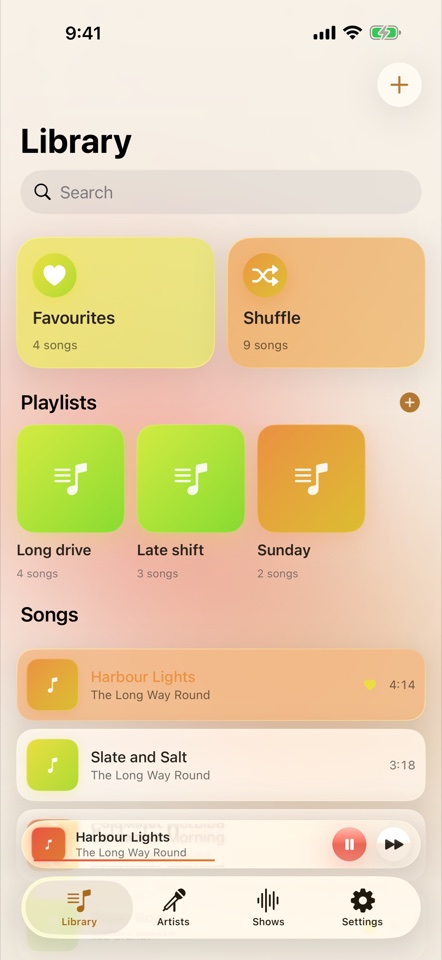
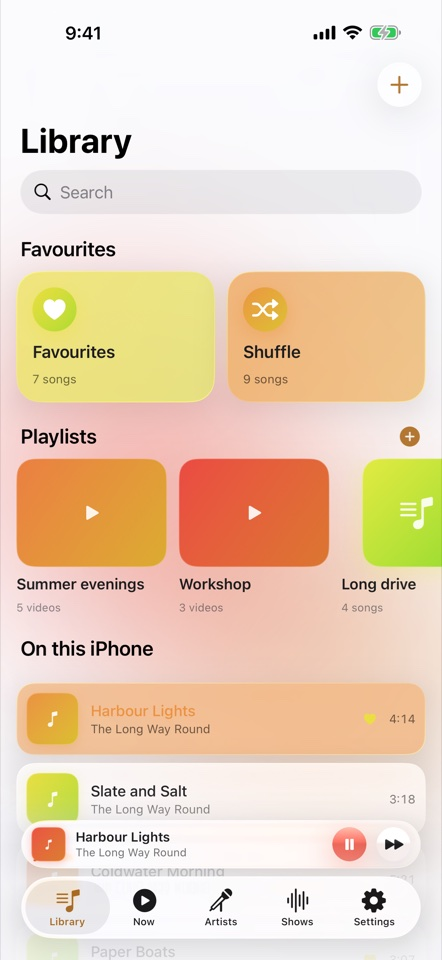
Mniejszy telefon na telefonie: 34vh zamiast 48vh w widoku mobilnym

diff --git a/de/index.html b/de/index.html
@@ -259,7 +259,7 @@ html.lite .ptile::before{filter:none!important;box-shadow:none}html.lite .pbg{bo
 /* ── small screens ── */
 @media(max-width:1000px){
  .tour{display:flex;flex-direction:column;padding-top:76px;gap:12px}#gl{z-index:4}
- .ptile{order:-1;position:sticky;top:70px;height:48vh;z-index:5;align-self:stretch;width:100%;margin-bottom:2px;background:var(--phonebg);box-shadow:0 24px 40px -22px rgba(0,0,0,.55)}.pbg{display:none}
+ .ptile{order:-1;position:sticky;top:70px;height:34vh;z-index:5;align-self:stretch;width:100%;margin-bottom:2px;background:var(--phonebg);box-shadow:0 24px 40px -22px rgba(0,0,0,.55)}.pbg{display:none}
  .tile,.tile.R{min-height:0!important}nav ul{display:none}.two,.flip{height:170px}.head h1{font-size:40px}
  .mosaic,.ex,.facts{grid-template-columns:1fr}.steps{grid-template-columns:1fr}.steps .tile{min-height:0}.cmp th,.cmp td{padding:14px 14px;font-size:14px}.cmp tbody th{width:32%}
  .plabel{font-size:12.5px;min-height:44px;padding-bottom:10px}

diff --git a/el/index.html b/el/index.html
@@ -259,7 +259,7 @@ html.lite .ptile::before{filter:none!important;box-shadow:none}html.lite .pbg{bo
 /* ── small screens ── */
 @media(max-width:1000px){
  .tour{display:flex;flex-direction:column;padding-top:76px;gap:12px}#gl{z-index:4}
- .ptile{order:-1;position:sticky;top:70px;height:48vh;z-index:5;align-self:stretch;width:100%;margin-bottom:2px;background:var(--phonebg);box-shadow:0 24px 40px -22px rgba(0,0,0,.55)}.pbg{display:none}
+ .ptile{order:-1;position:sticky;top:70px;height:34vh;z-index:5;align-self:stretch;width:100%;margin-bottom:2px;background:var(--phonebg);box-shadow:0 24px 40px -22px rgba(0,0,0,.55)}.pbg{display:none}
  .tile,.tile.R{min-height:0!important}nav ul{display:none}.two,.flip{height:170px}.head h1{font-size:40px}
  .mosaic,.ex,.facts{grid-template-columns:1fr}.steps{grid-template-columns:1fr}.steps .tile{min-height:0}.cmp th,.cmp td{padding:14px 14px;font-size:14px}.cmp tbody th{width:32%}
  .plabel{font-size:12.5px;min-height:44px;padding-bottom:10px}

diff --git a/es/index.html b/es/index.html
@@ -259,7 +259,7 @@ html.lite .ptile::before{filter:none!important;box-shadow:none}html.lite .pbg{bo
 /* ── small screens ── */
 @media(max-width:1000px){
  .tour{display:flex;flex-direction:column;padding-top:76px;gap:12px}#gl{z-index:4}
- .ptile{order:-1;position:sticky;top:70px;height:48vh;z-index:5;align-self:stretch;width:100%;margin-bottom:2px;background:var(--phonebg);box-shadow:0 24px 40px -22px rgba(0,0,0,.55)}.pbg{display:none}
+ .ptile{order:-1;position:sticky;top:70px;height:34vh;z-index:5;align-self:stretch;width:100%;margin-bottom:2px;background:var(--phonebg);box-shadow:0 24px 40px -22px rgba(0,0,0,.55)}.pbg{display:none}
  .tile,.tile.R{min-height:0!important}nav ul{display:none}.two,.flip{height:170px}.head h1{font-size:40px}
  .mosaic,.ex,.facts{grid-template-columns:1fr}.steps{grid-template-columns:1fr}.steps .tile{min-height:0}.cmp th,.cmp td{padding:14px 14px;font-size:14px}.cmp tbody th{width:32%}
  .plabel{font-size:12.5px;min-height:44px;padding-bottom:10px}

diff --git a/fr/index.html b/fr/index.html
@@ -259,7 +259,7 @@ html.lite .ptile::before{filter:none!important;box-shadow:none}html.lite .pbg{bo
 /* ── small screens ── */
 @media(max-width:1000px){
  .tour{display:flex;flex-direction:column;padding-top:76px;gap:12px}#gl{z-index:4}
- .ptile{order:-1;position:sticky;top:70px;height:48vh;z-index:5;align-self:stretch;width:100%;margin-bottom:2px;background:var(--phonebg);box-shadow:0 24px 40px -22px rgba(0,0,0,.55)}.pbg{display:none}
+ .ptile{order:-1;position:sticky;top:70px;height:34vh;z-index:5;align-self:stretch;width:100%;margin-bottom:2px;background:var(--phonebg);box-shadow:0 24px 40px -22px rgba(0,0,0,.55)}.pbg{display:none}
  .tile,.tile.R{min-height:0!important}nav ul{display:none}.two,.flip{height:170px}.head h1{font-size:40px}
  .mosaic,.ex,.facts{grid-template-columns:1fr}.steps{grid-template-columns:1fr}.steps .tile{min-height:0}.cmp th,.cmp td{padding:14px 14px;font-size:14px}.cmp tbody th{width:32%}
  .plabel{font-size:12.5px;min-height:44px;padding-bottom:10px}

diff --git a/index.html b/index.html
@@ -259,7 +259,7 @@ html.lite .ptile::before{filter:none!important;box-shadow:none}html.lite .pbg{bo
 /* ── small screens ── */
 @media(max-width:1000px){
  .tour{display:flex;flex-direction:column;padding-top:76px;gap:12px}#gl{z-index:4}
- .ptile{order:-1;position:sticky;top:70px;height:48vh;z-index:5;align-self:stretch;width:100%;margin-bottom:2px;background:var(--phonebg);box-shadow:0 24px 40px -22px rgba(0,0,0,.55)}.pbg{display:none}
+ .ptile{order:-1;position:sticky;top:70px;height:34vh;z-index:5;align-self:stretch;width:100%;margin-bottom:2px;background:var(--phonebg);box-shadow:0 24px 40px -22px rgba(0,0,0,.55)}.pbg{display:none}
  .tile,.tile.R{min-height:0!important}nav ul{display:none}.two,.flip{height:170px}.head h1{font-size:40px}
  .mosaic,.ex,.facts{grid-template-columns:1fr}.steps{grid-template-columns:1fr}.steps .tile{min-height:0}.cmp th,.cmp td{padding:14px 14px;font-size:14px}.cmp tbody th{width:32%}
  .plabel{font-size:12.5px;min-height:44px;padding-bottom:10px}

diff --git a/it/index.html b/it/index.html
@@ -259,7 +259,7 @@ html.lite .ptile::before{filter:none!important;box-shadow:none}html.lite .pbg{bo
 /* ── small screens ── */
 @media(max-width:1000px){
  .tour{display:flex;flex-direction:column;padding-top:76px;gap:12px}#gl{z-index:4}
- .ptile{order:-1;position:sticky;top:70px;height:48vh;z-index:5;align-self:stretch;width:100%;margin-bottom:2px;background:var(--phonebg);box-shadow:0 24px 40px -22px rgba(0,0,0,.55)}.pbg{display:none}
+ .ptile{order:-1;position:sticky;top:70px;height:34vh;z-index:5;align-self:stretch;width:100%;margin-bottom:2px;background:var(--phonebg);box-shadow:0 24px 40px -22px rgba(0,0,0,.55)}.pbg{display:none}
  .tile,.tile.R{min-height:0!important}nav ul{display:none}.two,.flip{height:170px}.head h1{font-size:40px}
  .mosaic,.ex,.facts{grid-template-columns:1fr}.steps{grid-template-columns:1fr}.steps .tile{min-height:0}.cmp th,.cmp td{padding:14px 14px;font-size:14px}.cmp tbody th{width:32%}
  .plabel{font-size:12.5px;min-height:44px;padding-bottom:10px}

diff --git a/ja/index.html b/ja/index.html
@@ -259,7 +259,7 @@ html.lite .ptile::before{filter:none!important;box-shadow:none}html.lite .pbg{bo
 /* ── small screens ── */
 @media(max-width:1000px){
  .tour{display:flex;flex-direction:column;padding-top:76px;gap:12px}#gl{z-index:4}
- .ptile{order:-1;position:sticky;top:70px;height:48vh;z-index:5;align-self:stretch;width:100%;margin-bottom:2px;background:var(--phonebg);box-shadow:0 24px 40px -22px rgba(0,0,0,.55)}.pbg{display:none}
+ .ptile{order:-1;position:sticky;top:70px;height:34vh;z-index:5;align-self:stretch;width:100%;margin-bottom:2px;background:var(--phonebg);box-shadow:0 24px 40px -22px rgba(0,0,0,.55)}.pbg{display:none}
  .tile,.tile.R{min-height:0!important}nav ul{display:none}.two,.flip{height:170px}.head h1{font-size:40px}
  .mosaic,.ex,.facts{grid-template-columns:1fr}.steps{grid-template-columns:1fr}.steps .tile{min-height:0}.cmp th,.cmp td{padding:14px 14px;font-size:14px}.cmp tbody th{width:32%}
  .plabel{font-size:12.5px;min-height:44px;padding-bottom:10px}

diff --git a/pl/index.html b/pl/index.html
@@ -259,7 +259,7 @@ html.lite .ptile::before{filter:none!important;box-shadow:none}html.lite .pbg{bo
 /* ── small screens ── */
 @media(max-width:1000px){
  .tour{display:flex;flex-direction:column;padding-top:76px;gap:12px}#gl{z-index:4}
- .ptile{order:-1;position:sticky;top:70px;height:48vh;z-index:5;align-self:stretch;width:100%;margin-bottom:2px;background:var(--phonebg);box-shadow:0 24px 40px -22px rgba(0,0,0,.55)}.pbg{display:none}
+ .ptile{order:-1;position:sticky;top:70px;height:34vh;z-index:5;align-self:stretch;width:100%;margin-bottom:2px;background:var(--phonebg);box-shadow:0 24px 40px -22px rgba(0,0,0,.55)}.pbg{display:none}
  .tile,.tile.R{min-height:0!important}nav ul{display:none}.two,.flip{height:170px}.head h1{font-size:40px}
  .mosaic,.ex,.facts{grid-template-columns:1fr}.steps{grid-template-columns:1fr}.steps .tile{min-height:0}.cmp th,.cmp td{padding:14px 14px;font-size:14px}.cmp tbody th{width:32%}
  .plabel{font-size:12.5px;min-height:44px;padding-bottom:10px}

diff --git a/ru/index.html b/ru/index.html
@@ -259,7 +259,7 @@ html.lite .ptile::before{filter:none!important;box-shadow:none}html.lite .pbg{bo
 /* ── small screens ── */
 @media(max-width:1000px){
  .tour{display:flex;flex-direction:column;padding-top:76px;gap:12px}#gl{z-index:4}
- .ptile{order:-1;position:sticky;top:70px;height:48vh;z-index:5;align-self:stretch;width:100%;margin-bottom:2px;background:var(--phonebg);box-shadow:0 24px 40px -22px rgba(0,0,0,.55)}.pbg{display:none}
+ .ptile{order:-1;position:sticky;top:70px;height:34vh;z-index:5;align-self:stretch;width:100%;margin-bottom:2px;background:var(--phonebg);box-shadow:0 24px 40px -22px rgba(0,0,0,.55)}.pbg{display:none}
  .tile,.tile.R{min-height:0!important}nav ul{display:none}.two,.flip{height:170px}.head h1{font-size:40px}
  .mosaic,.ex,.facts{grid-template-columns:1fr}.steps{grid-template-columns:1fr}.steps .tile{min-height:0}.cmp th,.cmp td{padding:14px 14px;font-size:14px}.cmp tbody th{width:32%}
  .plabel{font-size:12.5px;min-height:44px;padding-bottom:10px}

diff --git a/talkquote.html b/talkquote.html
@@ -259,7 +259,7 @@ html.lite .ptile::before{filter:none!important;box-shadow:none}html.lite .pbg{bo
 /* ── small screens ── */
 @media(max-width:1000px){
  .tour{display:flex;flex-direction:column;padding-top:76px;gap:12px}#gl{z-index:4}
- .ptile{order:-1;position:sticky;top:70px;height:48vh;z-index:5;align-self:stretch;width:100%;margin-bottom:2px;background:var(--phonebg);box-shadow:0 24px 40px -22px rgba(0,0,0,.55)}.pbg{display:none}
+ .ptile{order:-1;position:sticky;top:70px;height:34vh;z-index:5;align-self:stretch;width:100%;margin-bottom:2px;background:var(--phonebg);box-shadow:0 24px 40px -22px rgba(0,0,0,.55)}.pbg{display:none}
  .tile,.tile.R{min-height:0!important}nav ul{display:none}.two,.flip{height:170px}.head h1{font-size:40px}
  .mosaic,.ex,.facts{grid-template-columns:1fr}.steps{grid-template-columns:1fr}.steps .tile{min-height:0}.cmp th,.cmp td{padding:14px 14px;font-size:14px}.cmp tbody th{width:32%}
  .plabel{font-size:12.5px;min-height:44px;padding-bottom:10px}

diff --git a/voucherlume.html b/voucherlume.html
@@ -259,7 +259,7 @@ html.lite .ptile::before{filter:none!important;box-shadow:none}html.lite .pbg{bo
 /* ── small screens ── */
 @media(max-width:1000px){
  .tour{display:flex;flex-direction:column;padding-top:76px;gap:12px}#gl{z-index:4}
- .ptile{order:-1;position:sticky;top:70px;height:48vh;z-index:5;align-self:stretch;width:100%;margin-bottom:2px;background:var(--phonebg);box-shadow:0 24px 40px -22px rgba(0,0,0,.55)}.pbg{display:none}
+ .ptile{order:-1;position:sticky;top:70px;height:34vh;z-index:5;align-self:stretch;width:100%;margin-bottom:2px;background:var(--phonebg);box-shadow:0 24px 40px -22px rgba(0,0,0,.55)}.pbg{display:none}
  .tile,.tile.R{min-height:0!important}nav ul{display:none}.two,.flip{height:170px}.head h1{font-size:40px}
  .mosaic,.ex,.facts{grid-template-columns:1fr}.steps{grid-template-columns:1fr}.steps .tile{min-height:0}.cmp th,.cmp td{padding:14px 14px;font-size:14px}.cmp tbody th{width:32%}
  .plabel{font-size:12.5px;min-height:44px;padding-bottom:10px}

diff --git a/weddinglume.html b/weddinglume.html
@@ -259,7 +259,7 @@ html.lite .ptile::before{filter:none!important;box-shadow:none}html.lite .pbg{bo
 /* ── small screens ── */
 @media(max-width:1000px){
  .tour{display:flex;flex-direction:column;padding-top:76px;gap:12px}#gl{z-index:4}
- .ptile{order:-1;position:sticky;top:70px;height:48vh;z-index:5;align-self:stretch;width:100%;margin-bottom:2px;background:var(--phonebg);box-shadow:0 24px 40px -22px rgba(0,0,0,.55)}.pbg{display:none}
+ .ptile{order:-1;position:sticky;top:70px;height:34vh;z-index:5;align-self:stretch;width:100%;margin-bottom:2px;background:var(--phonebg);box-shadow:0 24px 40px -22px rgba(0,0,0,.55)}.pbg{display:none}
  .tile,.tile.R{min-height:0!important}nav ul{display:none}.two,.flip{height:170px}.head h1{font-size:40px}
  .mosaic,.ex,.facts{grid-template-columns:1fr}.steps{grid-template-columns:1fr}.steps .tile{min-height:0}.cmp th,.cmp td{padding:14px 14px;font-size:14px}.cmp tbody th{width:32%}
  .plabel{font-size:12.5px;min-height:44px;padding-bottom:10px}
